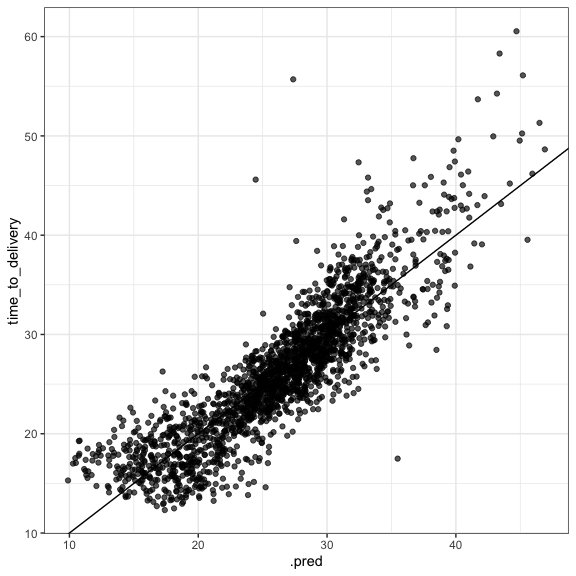
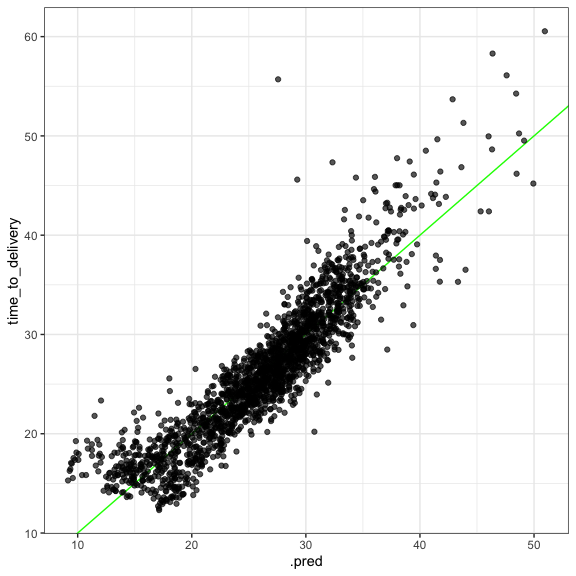
move to catboost

diff --git a/README.md b/README.md
@@ -49,14 +49,14 @@ delivery_test <- modeldata::deliveries[-in_train, ]
 
 ``` r
 set.seed(871)
-rf_fit <- rule_fit_lgb(time_to_delivery ~ ., data = delivery_train)
+rf_fit <- rule_fit_ctb(time_to_delivery ~ ., data = delivery_train)
 rf_fit
-#> RuleFit Using LightGBM
+#> RuleFit Using CatBoost
 #> 
 #> Training Set:
 #> ℹ Samples: 8000
 #> 
-#> ℹ Predictors: 422, including 386 rules
+#> ℹ Predictors: 417, including 381 rules
 #> 
 #> 
 #> Arguments:
@@ -82,8 +82,8 @@ library(ggplot2)
 
 rf_pred |> 
   ggplot(aes(.pred, time_to_delivery)) + 
-  geom_point(alpha = 2 / 3) + 
-  geom_abline() +
+  geom_abline(col = "green") + 
+  geom_point(alpha = 2 / 3) +
   theme_bw()
 ```
 
